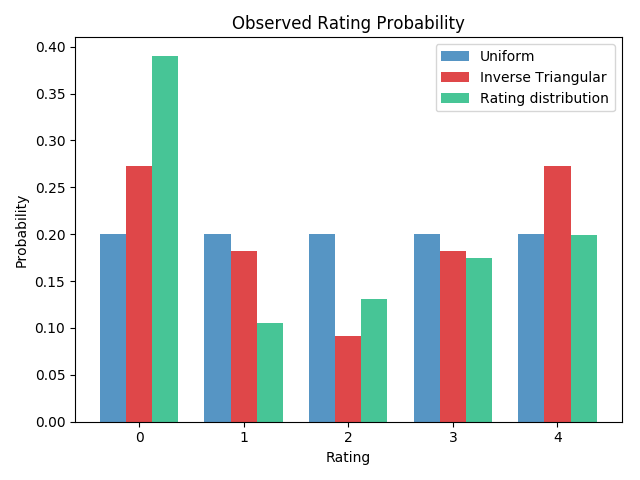
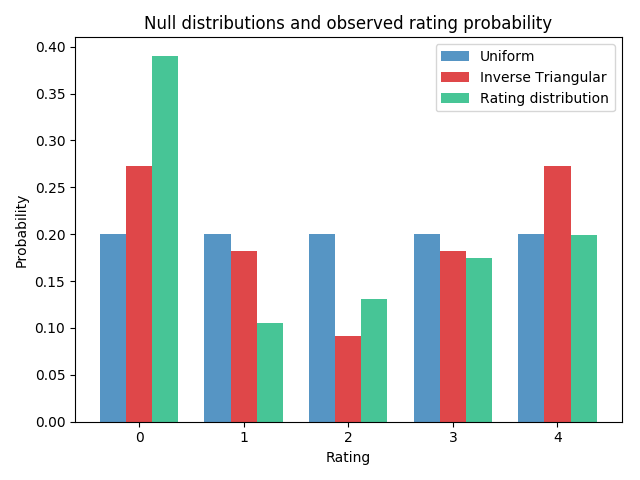
Fix plot title

Changed region(s): [[0.2188, 0.0312, 0.875, 0.0625]]

diff --git a/plot.py b/plot.py
@@ -170,7 +170,7 @@ def plot_rating_probability(rating_freq: Counter) -> None:
 
     plt.xlabel('Rating')
     plt.ylabel('Probability')
-    plt.title('Observed Rating Probability')
+    plt.title('Null distributions and observed rating probability')
     plt.xticks(index + bar_width, (0, 1, 2, 3, 4))
     plt.legend()
 
